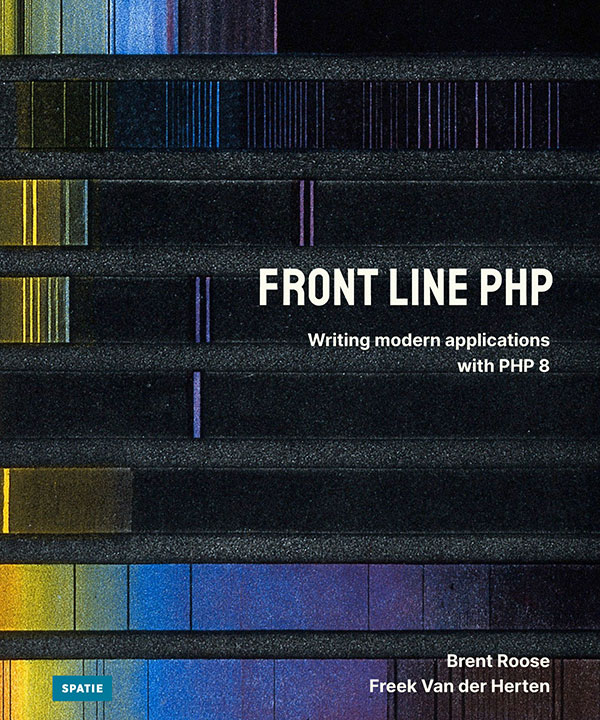
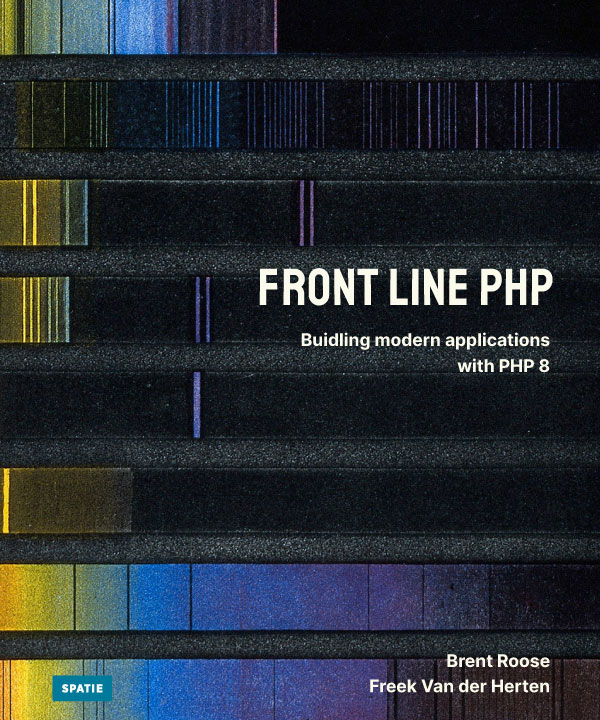
Update title

diff --git a/resources/views/front/home/index.blade.php b/resources/views/front/home/index.blade.php
@@ -1,8 +1,8 @@
 @extends('front.layouts.master')
 
-@section('title', 'Writing modern web applications with PHP 8')
+@section('title', 'Building modern web applications with PHP 8')
 
-@section('description', 'Writing modern web applications with PHP 8 by Brent Roose, accompanied by videos by Freek Van der Herten.')
+@section('description', 'Building modern web applications with PHP 8 by Brent Roose, accompanied by videos by Freek Van der Herten.')
 
 @section('content')
 
@@ -20,7 +20,7 @@
             Front Line PHP
         </h1>
         <p class="mt-2 font-semibold text-3xl sm:text-4xl leading-snug">
-            Writing modern applications
+            Building modern applications
             <br>
             with PHP 8
         </p>
